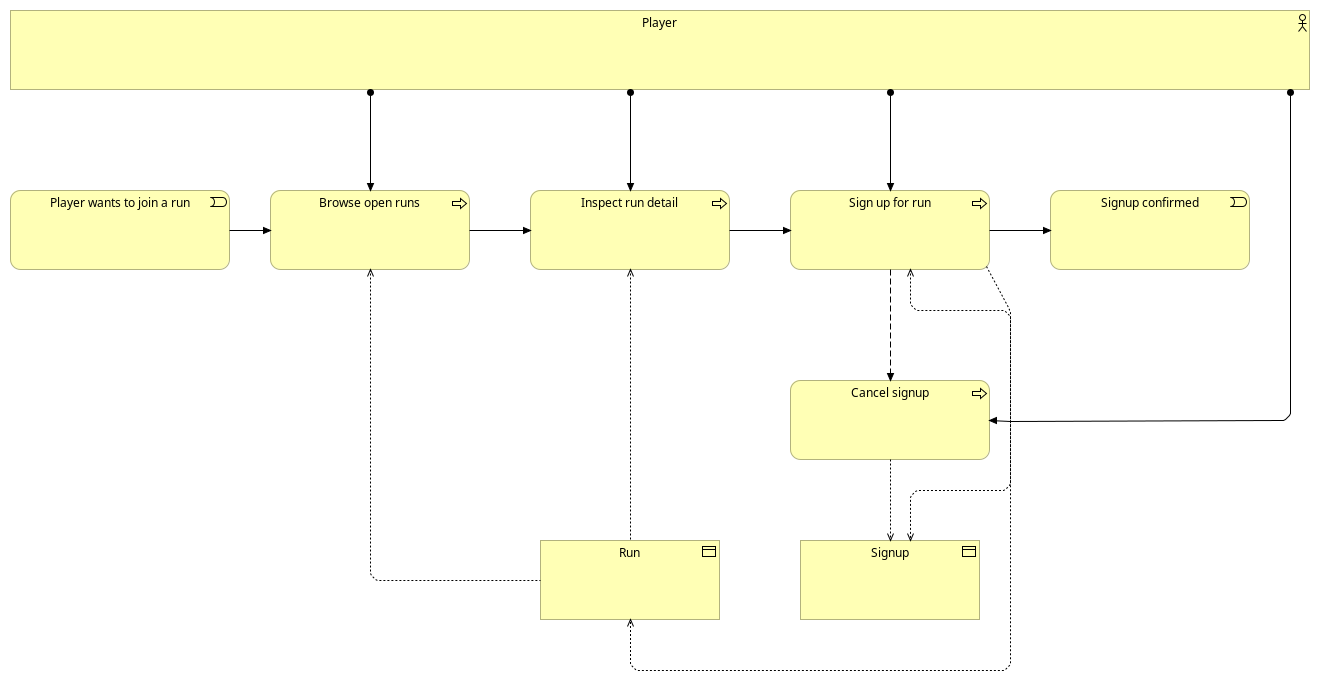
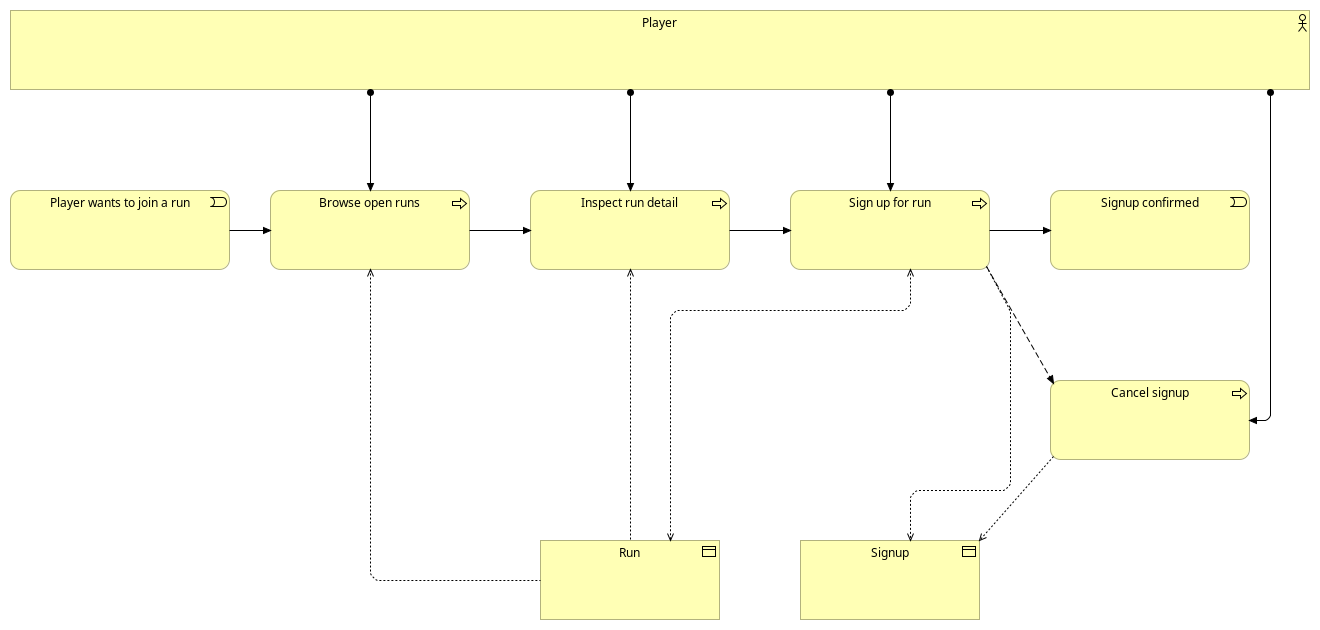
Polish architecture renders

diff --git a/docs/architecture/README.md b/docs/architecture/README.md
@@ -39,7 +39,7 @@ How `Lfm.Api` authenticates to every data-plane resource. The Function App carri
 
 ![Production Release Migration](renders/id-view-migration.png)
 
-CI/CD release path lifted from [`.github/workflows/`](../../.github/workflows/). LFM deploys to **one** environment (`production`); `deploy.yml` has no environment input and tags every resource `environment=production`. The Deploy orchestrator aggregates Deploy Infrastructure (Bicep what-if + apply), Deploy App-Build (Functions zip + Blazor wwwroot bundle), and Deploy App (uploads to Function App + SWA). The Migration view now shows a Repository Baseline Plateau, a Release to production Gap, the Deploy to Production Implementation Event, and the resulting Production Plateau. `Dev` and `Staging` plateaus exist as `FORWARD-ONLY` stubs in `<elements>` for future multi-environment work but are not drawn here. CI / E2E / Secret Scanning / Analyze Infrastructure / License Compliance / Stryker / Dependabot Auto-Merge are tracked but not visualised; they gate PRs, they do not realise the Plateau.
+CI/CD release path lifted from [`.github/workflows/`](../../.github/workflows/). LFM deploys to **one** environment (`production`); `deploy.yml` has no environment input and tags every resource `environment=production`. The Deploy orchestrator aggregates Deploy Infrastructure (Bicep what-if + apply), Deploy App-Build (Functions zip + Blazor wwwroot bundle), and Deploy App (uploads to Function App + SWA). The Migration view now shows a Repository Baseline Plateau, a Release to production Gap, the Deploy to Production Implementation Event, and the resulting Production Plateau. `Dev` and `Staging` plateaus exist as `FORWARD-ONLY` stubs in `<elements>` for future multi-environment work but are not drawn here. CI / E2E / Secret Scanning / Analyze Infrastructure / License Compliance / Dep License Check / Stryker Nightly (App.Core) / Dependabot Auto-Merge are tracked but not visualised; they gate PRs, they do not realise the Plateau.
 
 ### 5. Capability Map (FORWARD-ONLY scaffold)
 